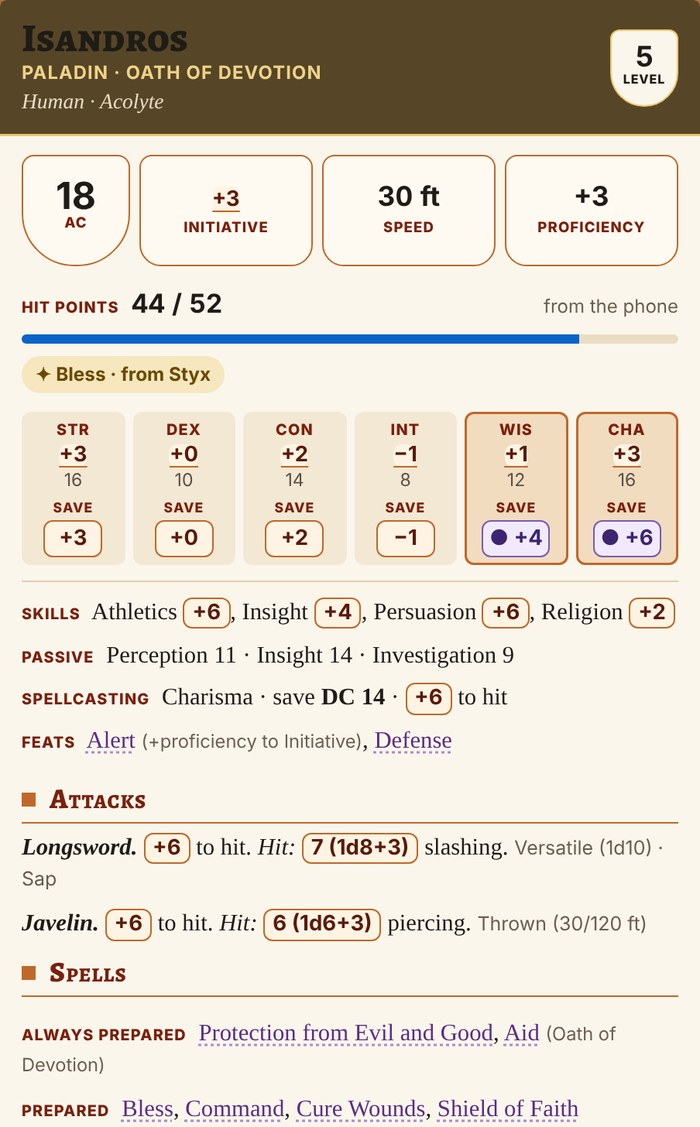
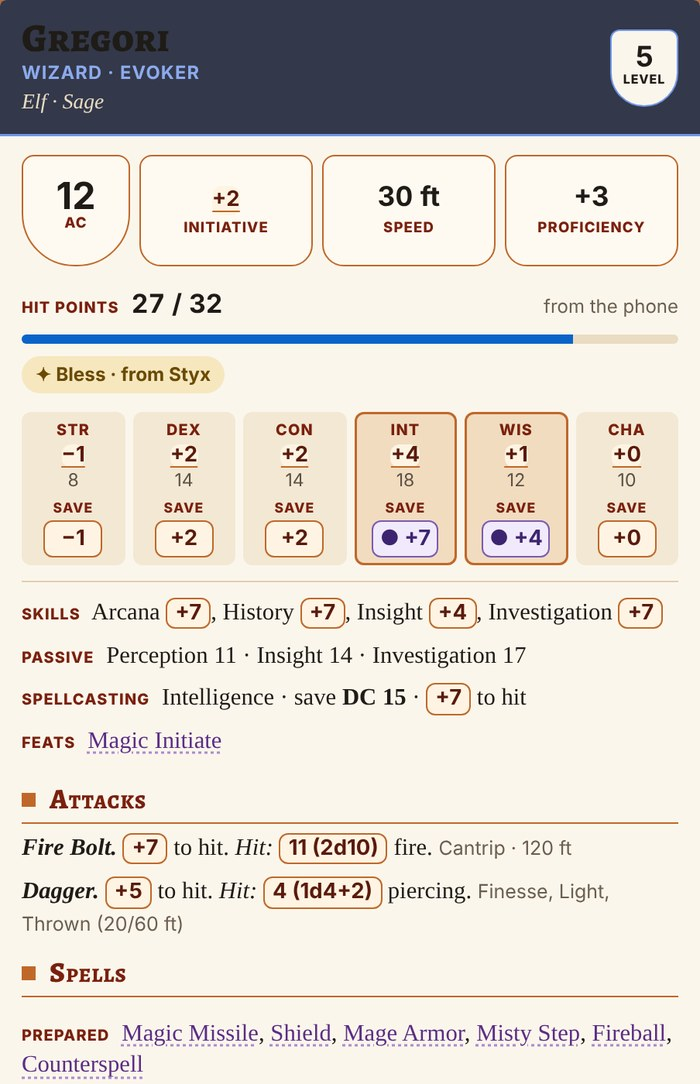
README stills: Gregori's blue sheet instead of the paladin's gold
The phone sheet, its Spells tab and the DM's player card now show Gregori
(wizard). The videos are re-recorded with the dice colour fix: Styx's dice
are pink on the TV, Gregori's blue on his phone.

Claude-Session: https://claude.ai/code/session_019XQztvimEXcboUvzsLsK4h

diff --git a/dev/media/stills.py b/dev/media/stills.py
@@ -22,15 +22,13 @@ async def main():
         await tv.goto('http://127.0.0.1:8765/players?shared=1&screen=tv');await asyncio.sleep(3)
         ph=await (await b.new_context(viewport={'width':390,'height':844},device_scale_factor=2)).new_page()
         await ph.goto(rk.PL+'/players');await asyncio.sleep(1.2);await ph.click('[data-act=pickme][data-n=Isandros]');await asyncio.sleep(1)
-        SH=("{name:'Isandros',cls:'Paladin 5',sub:'Oath of Devotion',lvl:5,species:'Human',bg:'Acolyte',size:'M',ac:18,hp:52,speed:30,init:null,prof:null,"
-            "ab:{str:16,dex:10,con:14,int:8,wis:12,cha:16},sv:['wis','cha'],sk:{athletics:1,insight:1,persuasion:1,religion:1},sa:'cha',"
-            "att:[{n:'Longsword',hit:6,dmg:'1d8+3 slashing',note:'Versatile (1d10) · Sap'},{n:'Javelin',hit:6,dmg:'1d6+3 piercing',note:'Thrown (30/120 ft)'}],"
-            "feats:[{n:'Alert',s:'XPHB',ap:false,ch:{}},{n:'Defense',s:'XPHB',ap:false,ch:{}}],"
-            "spells:{prep:['Bless','Command','Cure Wounds','Shield of Faith'],alw:[['Protection from Evil and Good','Oath of Devotion'],['Aid','Oath of Devotion']]},v:Date.now(),by:''}")
-        await S("state.sheets={isandros:"+SH+"};commit()")   # the same sheet on the DM's side, for the player card
-        await T(ph,"hpSet({cur:44,max:52,temp:0,auto:true});ls.set(shKey(),"+SH+");"
-                "resSet([{name:'Lay on Hands',max:25,cur:20,reset:'long'},{name:'Channel Divinity',max:2,cur:1,reset:'short'},"
-                "{name:'Spell slot 1',max:4,cur:3,reset:'long'},{name:'Spell slot 2',max:2,cur:2,reset:'long'}]);renderPlayer()")
+        SH=("{name:'Gregori',cls:'Wizard 5',sub:'Evoker',lvl:5,species:'Elf',bg:'Sage',size:'M',ac:12,hp:32,speed:30,init:null,prof:null,"
+            "ab:{str:8,dex:14,con:14,int:18,wis:12,cha:10},sv:['int','wis'],sk:{arcana:1,history:1,investigation:1,insight:1},sa:'int',"
+            "att:[{n:'Fire Bolt',hit:7,dmg:'2d10 fire',note:'Cantrip · 120 ft'},{n:'Dagger',hit:5,dmg:'1d4+2 piercing',note:'Finesse, Light, Thrown (20/60 ft)'}],"
+            "feats:[{n:'Magic Initiate',s:'XPHB',ap:false,ch:{}}],"
+            "spells:{prep:['Magic Missile','Shield','Mage Armor','Misty Step','Fireball','Counterspell']},v:Date.now(),by:''}")
+        await S("state.sheets={gregori:"+SH+"};byId('gr').php={cur:27,max:32,temp:0};commit()")   # Gregori's sheet on the DM's side, for the player card
+        await T(ph,"hpSet({cur:44,max:52,temp:0,auto:true});renderPlayer()")
         await asyncio.sleep(1.5)
         # 1. the four screens, same moment: the dragon's turn
         if want('four'):
@@ -81,15 +79,18 @@ async def main():
             await T(ph,"pSheet='book';spellScope='all';bookQ='';renderPSheet()");await asyncio.sleep(2.5);await ph.screenshot(path=O+'g_spells.png')
             await T(ph,"spView={n:'Fireball',s:'SRD52',from:'book'};pSheet='spell';renderPSheet();refGet('spell','Fireball','SRD52',true).then(d=>{spView.d=d;renderPSheet()})");await asyncio.sleep(1.5);await ph.screenshot(path=O+'g_spell.png')
             await T(ph,"pSheet=null;renderPSheet()")
-        if want('sheet'):
-            await asyncio.sleep(4)   # the "sheet is back" toast from the DM's copy
-            await T(ph,"pSheet='sheet';shLast=null;shTab='main';ls.set('shOpen',{ab:true,wp:true});renderPSheet()");await asyncio.sleep(.8)
-            await ph.screenshot(path=O+'g_sheet.png')
-            await T(ph,"shTab='spells';renderPSheet()");await asyncio.sleep(1.5);await ph.screenshot(path=O+'g_sheet_spells.png')
-            await T(ph,"shTab='main';ls.set('shTab','main');pSheet=null;renderPSheet()")
+        if want('sheet'):   # Gregori's phone: the wizard's blue sheet
+            pg=await (await b.new_context(viewport={'width':390,'height':844},device_scale_factor=2)).new_page()
+            await pg.goto(rk.PL+'/players');await asyncio.sleep(1.2);await pg.click('[data-act=pickme][data-n=Gregori]');await asyncio.sleep(1)
+            await T(pg,"hpSet({cur:27,max:32,temp:0,auto:true});ls.set(shKey(),"+SH+");resSet([{name:'Spell slot 1',max:4,cur:3,reset:'long'},"
+                    "{name:'Spell slot 2',max:3,cur:3,reset:'long'},{name:'Spell slot 3',max:2,cur:1,reset:'long'},{name:'Arcane Recovery',max:1,cur:1,reset:'long'}]);renderPlayer()")
+            await asyncio.sleep(4.5)   # the "sheet is back" toast from the DM's copy
+            await T(pg,"pSheet='sheet';shLast=null;shTab='main';ls.set('shOpen',{ab:true,wp:true});renderPSheet()");await asyncio.sleep(.8)
+            await pg.screenshot(path=O+'g_sheet.png')
+            await T(pg,"shTab='spells';renderPSheet()");await asyncio.sleep(1.5);await pg.screenshot(path=O+'g_sheet_spells.png')
         if want('pccard'):
             await dm.set_viewport_size({'width':1536,'height':1500})
-            await S("sbViewId='i';sbLoreOn=false;renderDM();renderSbDrawer()",.8)
+            await S("sbViewId='gr';sbLoreOn=false;renderDM();renderSbDrawer()",.8)
             await dm.locator('#sbDrawer .sbbody > *').first.screenshot(path=O+'g_pccard.png')
             await dm.set_viewport_size({'width':1536,'height':864});await S("sbViewId='d';renderDM()",.3)
         if want('conc'):

diff --git a/README.md b/README.md
@@ -72,7 +72,7 @@ The turn order is one row per creature, and the statblock opens beside it, so yo
 
 <table>
 <tr>
-<td width="38%" valign="top"><img src="media/dm-card.jpg" width="100%" alt="Isandros's character sheet on the DM's screen: AC, initiative, HP from the phone, abilities and saves, skills, feats, attacks and spells, each bonus clickable"></td>
+<td width="38%" valign="top"><img src="media/dm-card.jpg" width="100%" alt="Gregori's character sheet on the DM's screen: AC, initiative, HP from the phone, abilities and saves, skills, feats, attacks and spells, each bonus clickable"></td>
 <td valign="top">
 
 **Your players' sheets, one click away.** Open a player like a monster and their sheet appears as a card: AC, HP from their phone, abilities, saves, skills, feats, attacks and prepared spells. Every bonus rolls. A player fills it in on their phone, or you set it up for them and send it over. For a player on paper, keep it just for yourself.
@@ -156,7 +156,7 @@ https://github.com/user-attachments/assets/7b8dfa4b-25bb-4b2c-9c3a-590fa657dc16
 
 <table>
 <tr>
-<td width="30%" valign="top"><img src="media/phone-sheet.jpg" width="100%" alt="Isandros's character sheet on a phone: name, class and level, AC and HP, initiative, speed and proficiency, and abilities and saves that roll when tapped"></td>
+<td width="30%" valign="top"><img src="media/phone-sheet.jpg" width="100%" alt="Gregori's character sheet on a phone: name, class and level, AC and HP, initiative, speed and proficiency, and abilities and saves that roll when tapped"></td>
 <td valign="top">
 
 Players scan a QR code and tap their character. Nothing to install.
